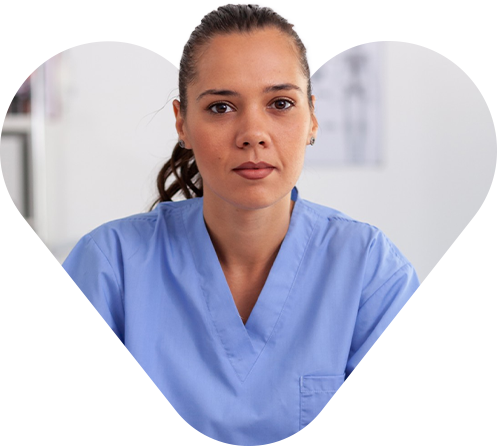
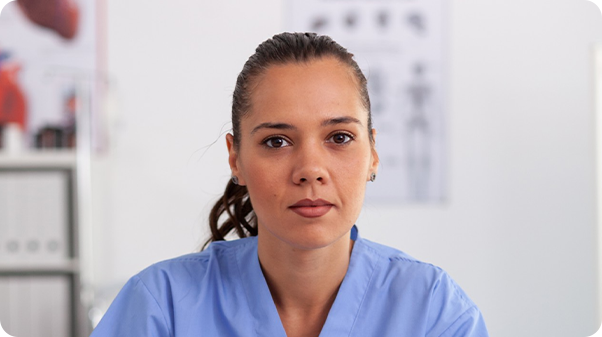
feat: atualiza imagens Cliente, Prestador e Quem Somos
Substitui imagens por versões fornecidas pelo cliente.
Corrige extensão img-quem-somos de .jpg para .png.

diff --git a/src/app/quem-somos/page.tsx b/src/app/quem-somos/page.tsx
@@ -76,7 +76,7 @@ export default function QuemSomosPage() {
             <ScrollAnimationWrapper direction="left">
               <div className="relative aspect-[4/3] rounded-2xl overflow-hidden shadow-xl">
                 <Image
-                  src="/images/general/img-quem-somos.jpg"
+                  src="/images/general/img-quem-somos.png"
                   alt="Equipe Viver Saúde"
                   fill
                   className="object-cover"

diff --git a/src/lib/constants/media.ts b/src/lib/constants/media.ts
@@ -32,7 +32,7 @@ export const MEDIA = {
 
   quemSomos: {
     team: {
-      src: "/images/general/img-quem-somos.jpg",
+      src: "/images/general/img-quem-somos.png",
       alt: "Equipe de profissionais da Viver Saúde comprometida com o seu cuidado",
     },
     valores: {
